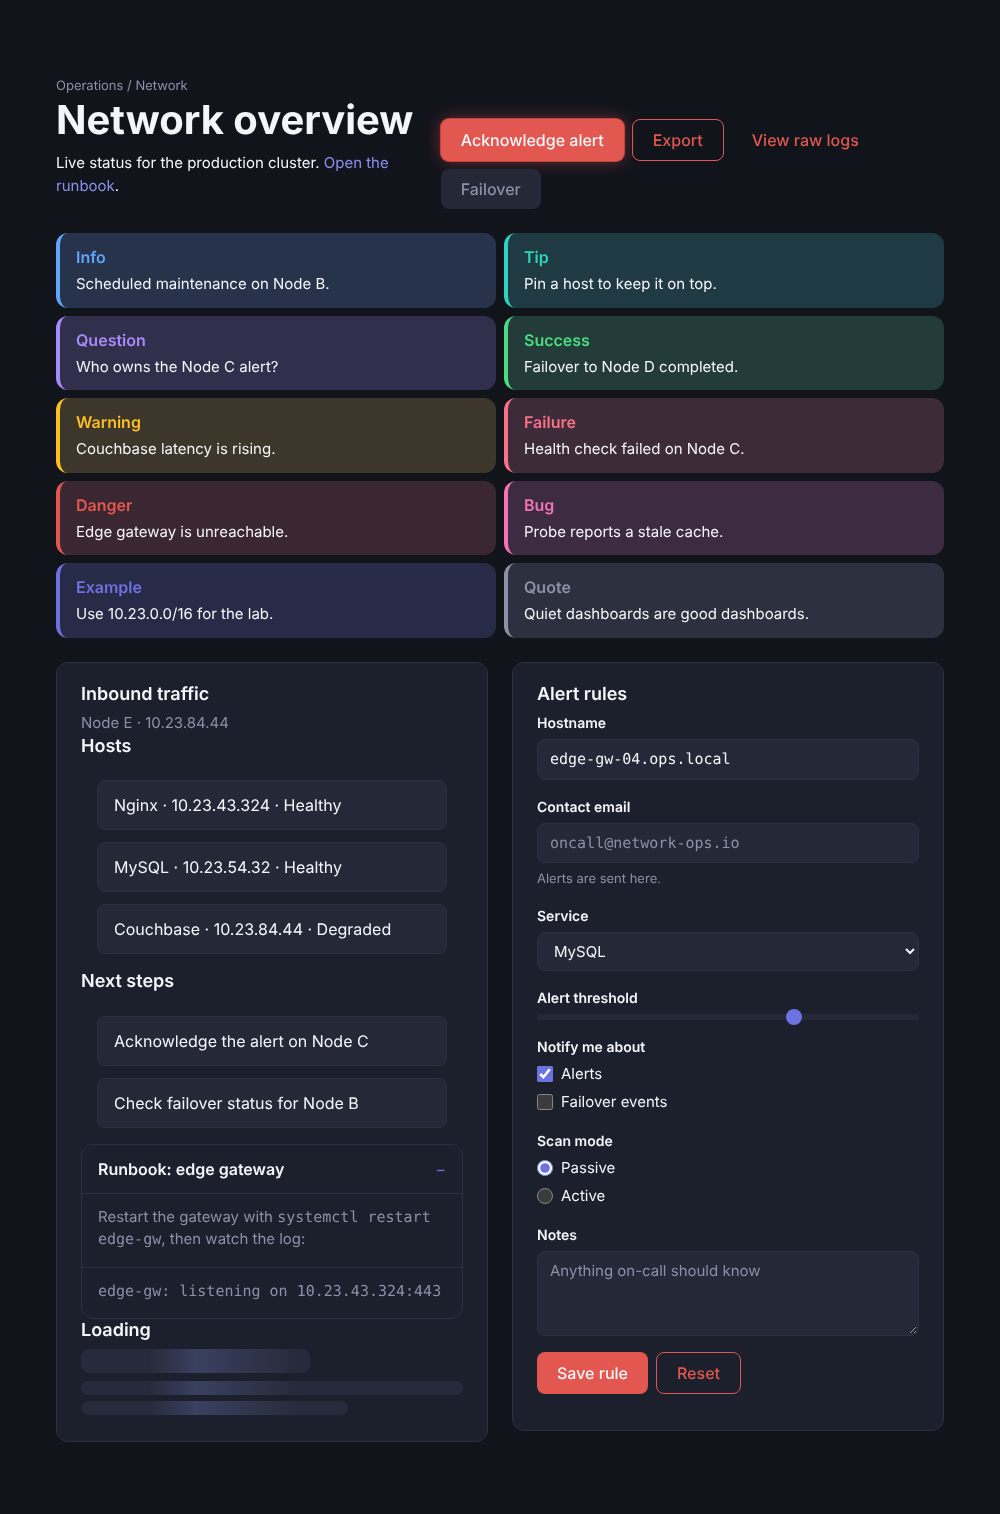
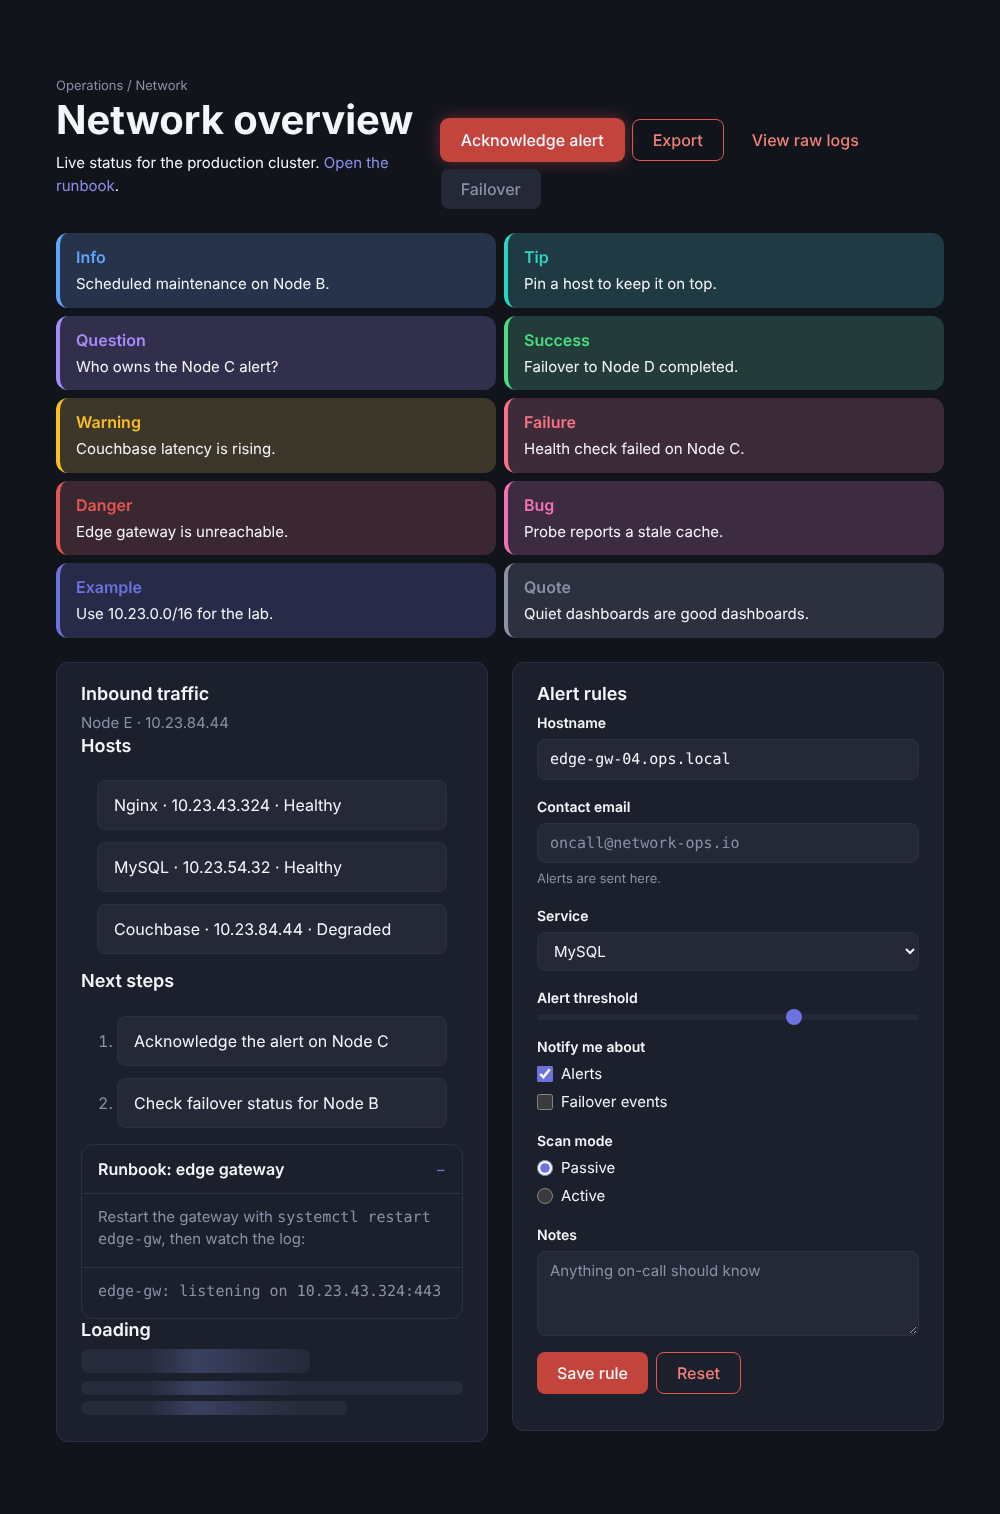
Meet AA on theme-network-ops buttons, show ol markers, rename theme folder
- Primary button fills with brand-600 and hovers to a new brand-700;
  secondary and ghost buttons use a new lighter brand-400 for their ink
  and a lighter hover wash. Every button state is now >= 4.5:1.
- ol.theme-container shows its numbers (muted, in the container's gutter).
- Rename themes/theme-network-ops to themes/network-ops.
- Update AGENTS.md contrast notes and regenerate the screenshot.

Claude-Session: https://claude.ai/code/session_01Fmf8faWrAdQreRnAqAZj7T

Changed region(s): [[0.124, 0.683, 0.372, 0.745], [0.434, 0.0621, 0.62, 0.1242], [0.527, 0.8692, 0.651, 0.9313]]

diff --git a/packages/theme-network-ops/src/index.css b/packages/theme-network-ops/src/index.css
@@ -1,5 +1,5 @@
 /*
- * Design tokens for this theme live in themes/theme-network-ops/theme.css
+ * Design tokens for this theme live in themes/network-ops/theme.css
  * (the single source for this theme) and are exposed as CSS custom
  * properties via Tailwind v4's @theme directive. Consumers that also run
  * Tailwind can @import this file to pick up the tokens as utilities
@@ -7,7 +7,7 @@
  * component classes below.
  */
 @import "tailwindcss";
-@import "../../../themes/theme-network-ops/theme.css";
+@import "../../../themes/network-ops/theme.css";
 
 :root {
   color-scheme: dark;
@@ -123,7 +123,7 @@ a:focus-visible {
 
 .theme-button {
   border-radius: var(--radius-theme-sm);
-  background-color: var(--color-brand-500);
+  background-color: var(--color-brand-600);
   color: var(--color-text);
   padding: 0.5rem 1.25rem;
   font-family: var(--font-sans);
@@ -133,7 +133,7 @@ a:focus-visible {
 }
 
 .theme-button:hover {
-  background-color: var(--color-brand-600);
+  background-color: var(--color-brand-700);
 }
 
 .theme-button:focus-visible {
@@ -326,22 +326,22 @@ a:focus-visible {
 
 .theme-button--secondary {
   background-color: transparent;
-  color: var(--color-brand-500);
+  color: var(--color-brand-400);
   border: 1px solid var(--color-brand-500);
 }
 
 .theme-button--secondary:hover {
-  background-color: color-mix(in srgb, var(--color-brand-500) 15%, transparent);
+  background-color: color-mix(in srgb, var(--color-brand-500) 8%, transparent);
 }
 
 .theme-button--ghost {
   background-color: transparent;
-  color: var(--color-brand-500);
+  color: var(--color-brand-400);
   border: none;
 }
 
 .theme-button--ghost:hover {
-  background-color: color-mix(in srgb, var(--color-brand-500) 12%, transparent);
+  background-color: color-mix(in srgb, var(--color-brand-500) 8%, transparent);
 }
 
 .theme-button:disabled,
@@ -367,6 +367,16 @@ a:focus-visible {
   padding: 1rem;
   margin: 0;
   list-style: none;
+}
+
+/* An <ol> shows its numbers, in the gap left of the items. */
+ol.theme-container {
+  list-style: decimal;
+  padding-left: 2.25rem;
+}
+
+ol.theme-container > li::marker {
+  color: var(--color-text-muted);
 }
 
 .theme-item {

diff --git a/packages/theme-network-ops/stories/Container.stories.ts b/packages/theme-network-ops/stories/Container.stories.ts
@@ -7,7 +7,7 @@ const meta: Meta = {
       tag: ".theme-container",
       title: "Container",
       description: [
-        "A vertical stack with a 0.75rem gap, for a group of items. It works on a div, ul or ol, and removes list markers, so a numbered list shows no numbers.",
+        "A vertical stack with a 0.75rem gap, for a group of items. It works on a div, ul or ol. A ul shows no bullets, but an ol keeps its numbers, in muted ink in the gap left of the items.",
         "Put theme-item children inside it. The container has no surface of its own, so it sits directly on the page or inside a card.",
       ],
     },

diff --git a/packages/theme-network-ops/.storybook/preview.ts b/packages/theme-network-ops/.storybook/preview.ts
@@ -3,7 +3,7 @@ import { htmlIntroDecorator } from "../../../shared/storybook/intro-html.js";
 
 // Built by `npm run build` (runs automatically via the pre* npm hooks
 // before `storybook dev` / `build-storybook`). It carries the tokens from
-// themes/theme-network-ops/theme.css as custom properties, so the backdrop
+// themes/network-ops/theme.css as custom properties, so the backdrop
 // below can use them too.
 import "../dist/index.css";
 

diff --git a/themes/network-ops/theme.css b/themes/network-ops/theme.css
@@ -6,8 +6,10 @@
 
   --color-brand-50: #fdeceb;
   --color-brand-100: #f8c7c4;
+  --color-brand-400: #f08077;
   --color-brand-500: #e2574f;
   --color-brand-600: #c2443d;
+  --color-brand-700: #a93832;
   --color-brand-900: #5c201c;
 
   --color-accent-400: #8b90ea;

diff --git a/packages/theme-network-ops/AGENTS.md b/packages/theme-network-ops/AGENTS.md
@@ -29,7 +29,10 @@ Values (addresses, thresholds) are set in monospace.
 ### Rules
 
 1. **Colour roles.** Coral is for the primary button, the glow button and
-   danger callouts only; hover darkens it to `--color-brand-600`. Indigo is
+   danger callouts only. The primary button fills with `--color-brand-600` and
+   darkens to `--color-brand-700` on hover (so its light text meets AA);
+   secondary and ghost buttons use the lighter `--color-brand-400` for their
+   ink and `--color-brand-500` for the outline. Indigo is
    for links (`--color-accent-400`), focus rings and checked controls
    (`--color-accent-500`), and pressed links (`--color-accent-600`). Never use
    coral for decoration, so it keeps meaning "act now".
@@ -56,14 +59,11 @@ Values (addresses, thresholds) are set in monospace.
 6. **Motion.** Only the skeleton shimmer moves, and it stops under
    `prefers-reduced-motion`.
 7. **Contrast.** Measured in Chromium from the resolved tokens, on the surface
-   each ink sits on. Body text, headings, links, placeholders, disabled
-   buttons and the seven other blockquote labels meet WCAG AA (4.5:1).
+   each ink sits on. Body text, headings, links, placeholders, every button
+   state (primary 4.64:1, secondary and ghost 5.2–7.1:1 on the page, a card or
+   an item, hover included, disabled 4.68:1) and the seven other blockquote
+   labels meet WCAG AA (4.5:1).
    **These do not**, and are not claimed:
-   - `--color-text` on `--color-brand-500` (primary and glow buttons): 3.41:1.
-     On hover (`--color-brand-600`) it is 4.64:1.
-   - Secondary and ghost buttons (coral ink): 5.0:1 on the page, but 4.45:1 on
-     a card (`--color-surface`) and 3.98:1 on `--color-surface-alt`. Their
-     hover wash lowers it further, to 3.4–4.4:1 depending on the surface.
    - `.theme-blockquote__label` on its tinted background: `--danger` 3.77:1,
      `--example` 3.35:1, `--quote` 4.18:1.
    - A field's 1px `--color-border` against its `--color-surface-alt` fill is
@@ -78,9 +78,9 @@ Values (addresses, thresholds) are set in monospace.
 `@layer theme`). Style your own elements with `var(--color-surface)`,
 `var(--font-sans)` and `var(--radius-theme)`; never paste hex values, since
 the tokens are compiled from the theme's single source
-(`themes/theme-network-ops/theme.css`). The ones an outside element needs:
+(`themes/network-ops/theme.css`). The ones an outside element needs:
 `--color-bg`, `--color-surface`, `--color-surface-alt`, `--color-border`,
-`--color-text`, `--color-text-muted`, `--color-brand-500`/`-600`,
+`--color-text`, `--color-text-muted`, `--color-brand-400`/`-500`/`-600`/`-700`,
 `--color-accent-400`/`-500`/`-600`, the `--color-<type>-500` status colours,
 `--font-sans`, `--font-mono`, `--radius-theme`, `--radius-theme-sm` and
 `--shadow-glow`.
@@ -125,7 +125,7 @@ to the system sans-serif):
 | ------------------------------------------------- | ----------------------- | ------------------------------------------------------------------------------------------------------------------------------ |
 | `.theme-button`                                   | `<button>`              | `--secondary`, `--ghost`, `--glow`; `disabled`                                                                                 |
 | `.theme-card`                                     | any block               | `__title`, `__body`                                                                                                            |
-| `.theme-container`                                | `<div>`, `<ul>`, `<ol>` | vertical stack; removes list markers, so an `<ol>` shows no numbers                                                            |
+| `.theme-container`                                | `<div>`, `<ul>`, `<ol>` | vertical stack; removes list markers on `<ul>`, but an `<ol>` shows its numbers                                                |
 | `.theme-item`                                     | `<div>`, `<li>`         | goes inside a container                                                                                                        |
 | `.theme-details`                                  | `<details>`             | `__body` on the content after `<summary>`                                                                                      |
 | `.theme-blockquote`                               | `<blockquote>`          | `--info`, `--tip`, `--question`, `--success`, `--warning`, `--failure`, `--danger`, `--bug`, `--example`, `--quote`; `__label` |

diff --git a/packages/theme-network-ops/README.md b/packages/theme-network-ops/README.md
@@ -127,7 +127,7 @@ npm run storybook          # preview the theme's component classes
 npm run screenshot         # regenerate docs/screenshot.png (after build-storybook)
 ```
 
-Tokens live in `themes/theme-network-ops/theme.css`; `src/index.css` imports
+Tokens live in `themes/network-ops/theme.css`; `src/index.css` imports
 them. Every stories file sets `parameters.intro` (shown above its stories),
 and `stories/Demo.stories.ts` is a full page built from the classes, and is
 what the screenshot shows.
